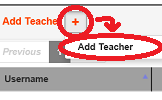
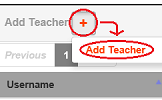
Look and Feel

diff --git a/fitness_scoring/static/css/site_styles.css b/fitness_scoring/static/css/site_styles.css
@@ -337,5 +337,5 @@ li.item_list_menu_link > a {
 li.item_list_menu_link > a:hover {
     color: white;
     font-weight: bold;
-    background-color: darkorange;
+    background-color: orangered;
 }
